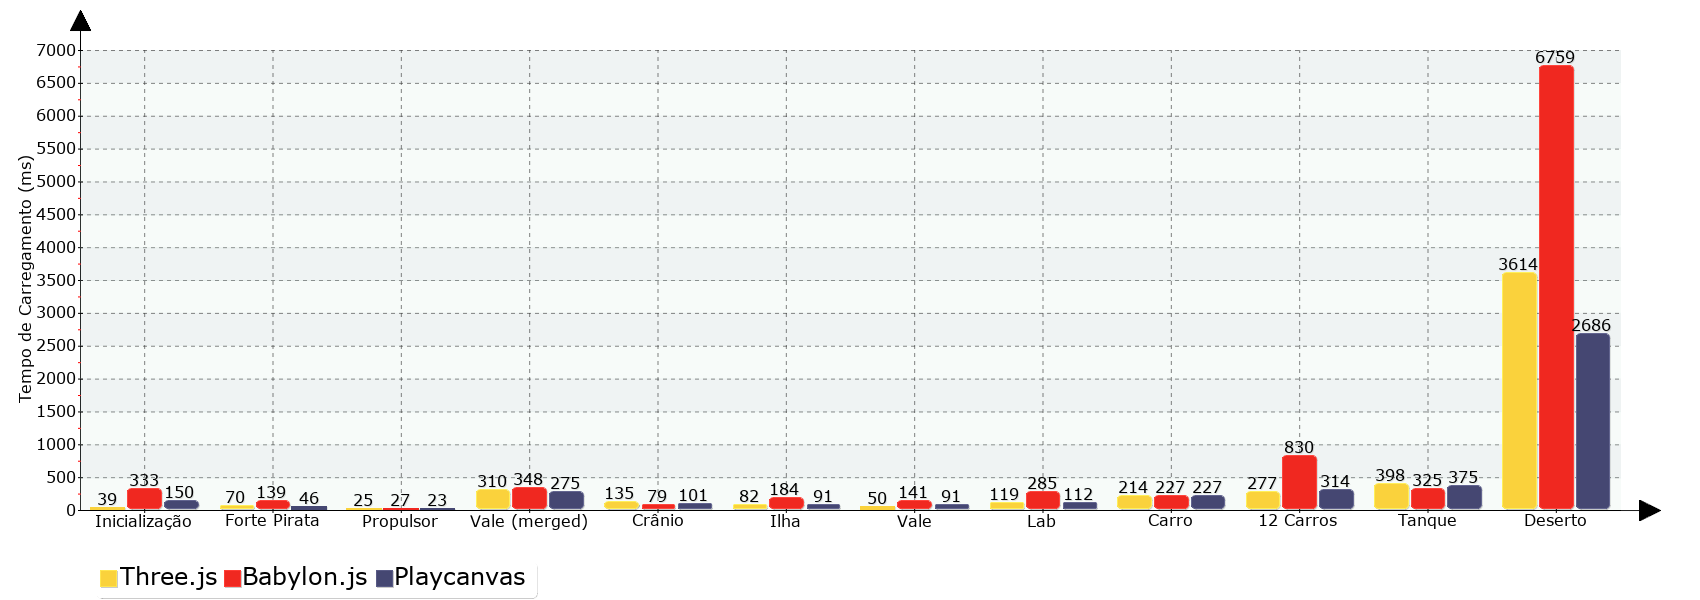
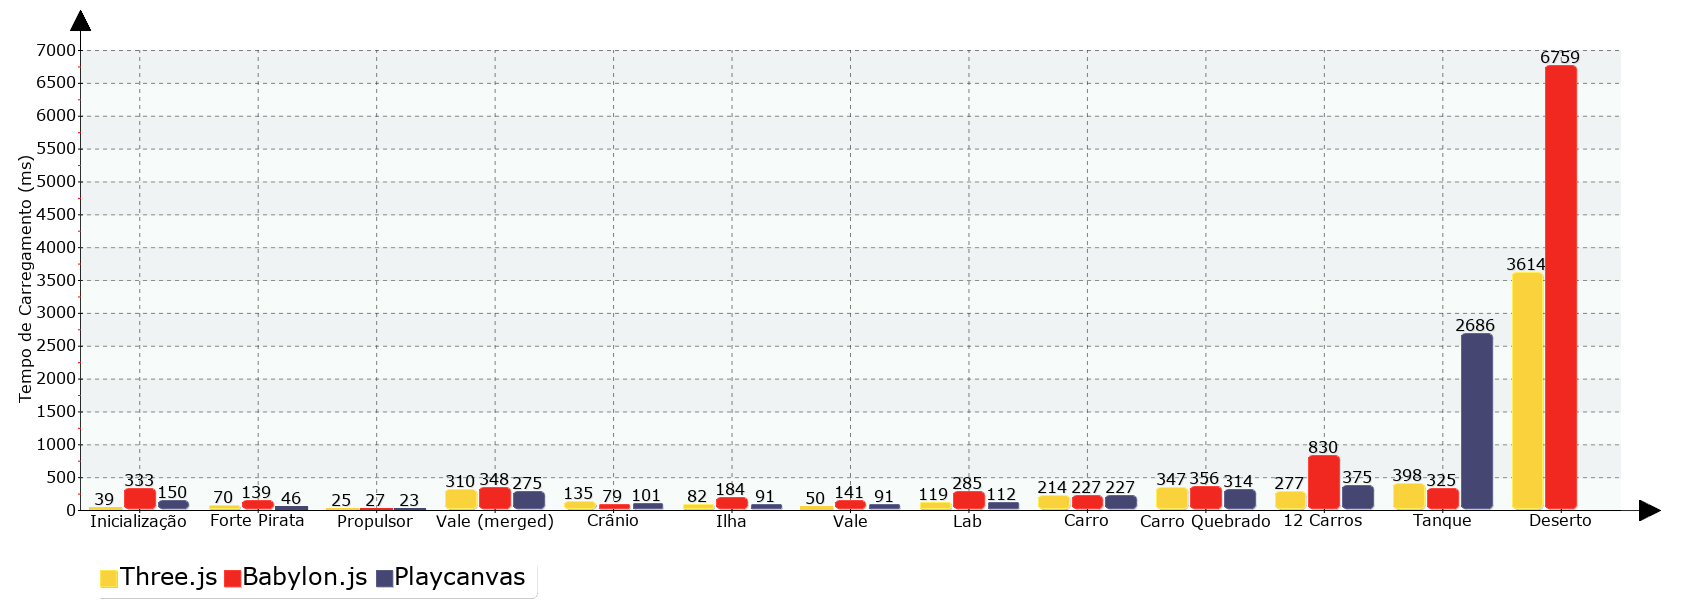
Finalizado no Linux

Changed region(s): [[0.0624, 0.09, 0.9665, 0.9]]

diff --git a/main.php b/main.php
@@ -313,7 +313,7 @@ function makeLoadingChart($dataModelLoading, $libraries)
     global $barConfig, $legendConfig, $palletes;
 
     $LoadingbarConfig = array_merge($barConfig, [
-            "DisplayValues" => true
+        "DisplayValues" => true
     ]);
 
     foreach ($dataModelLoading as $pcName => $pc) {
@@ -335,6 +335,8 @@ function makeLoadingChart($dataModelLoading, $libraries)
                 if (isset($pc[$lib][$scene])) {
                     $points[] = $pc[$lib][$scene];
                     $usedScenes[$scene] = true;
+                } else {
+                    $points[] = VOID;
                 }
             }
             $data->addPoints($points, $libName);
@@ -515,7 +517,7 @@ function makeAvgChart($filename, $browser, $libraries)
             $image->drawBarChart($localBarConfig);
 
             $image->drawLegend(OUTER_PADDING, IMAGE_HEIGHT - 30, $legendConfig);
-            $image->autoOutput("$filename-frustum-$pcName-$groupName.png");
+            $image->autoOutput("$filename-$pcName-$groupName.png");
         }
     }
 }
